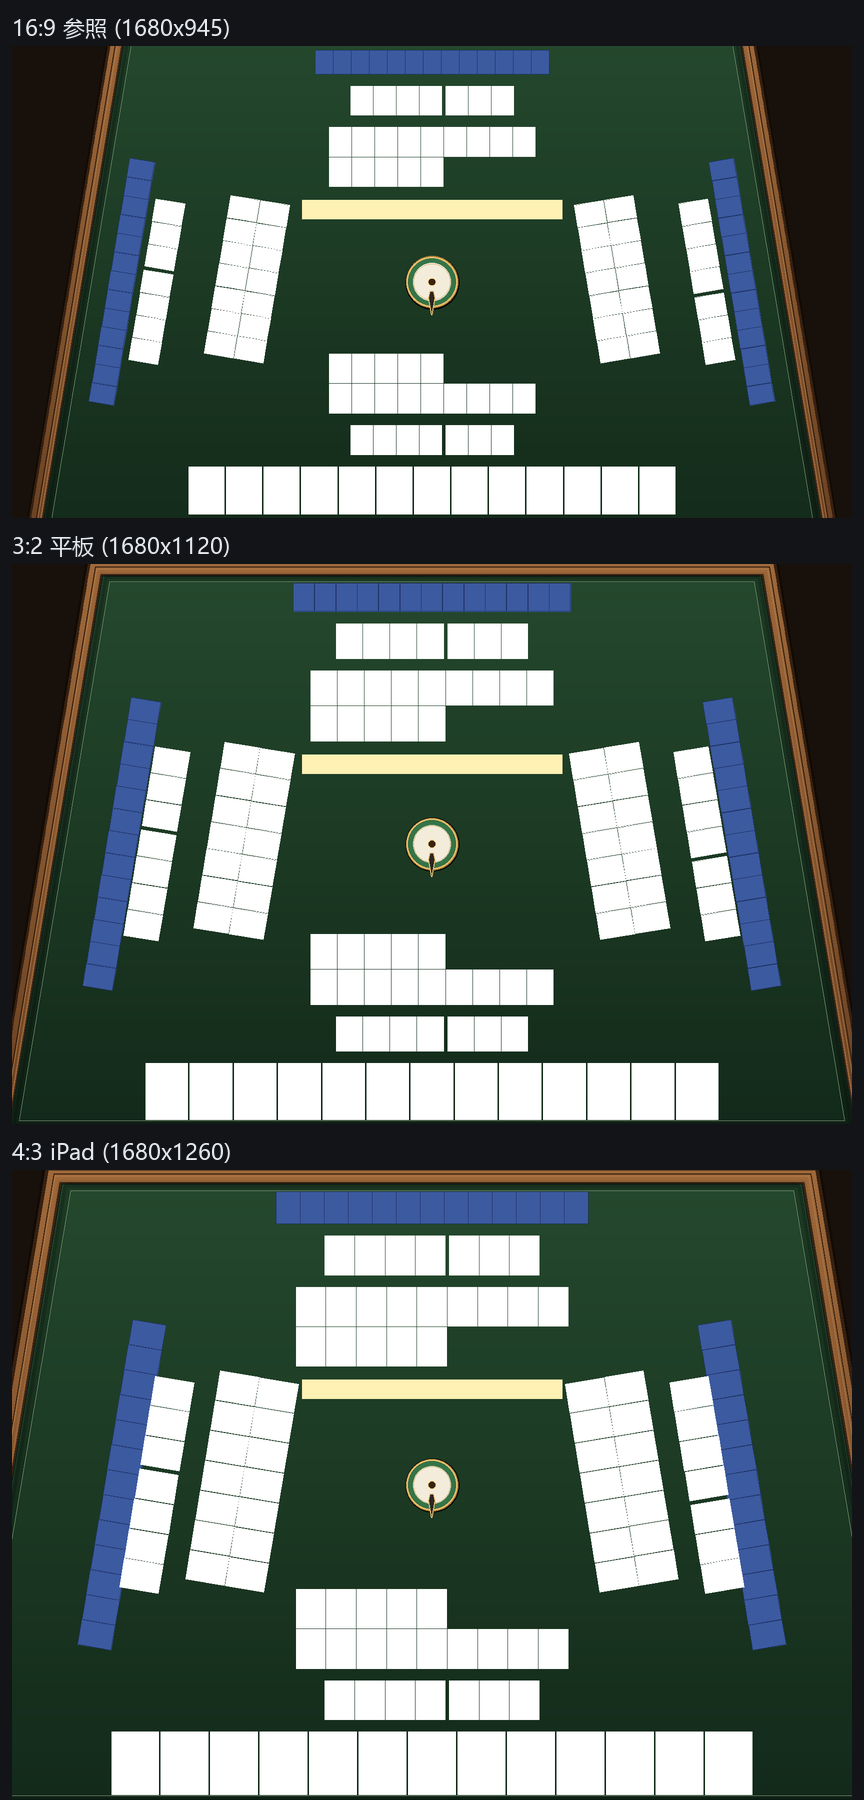
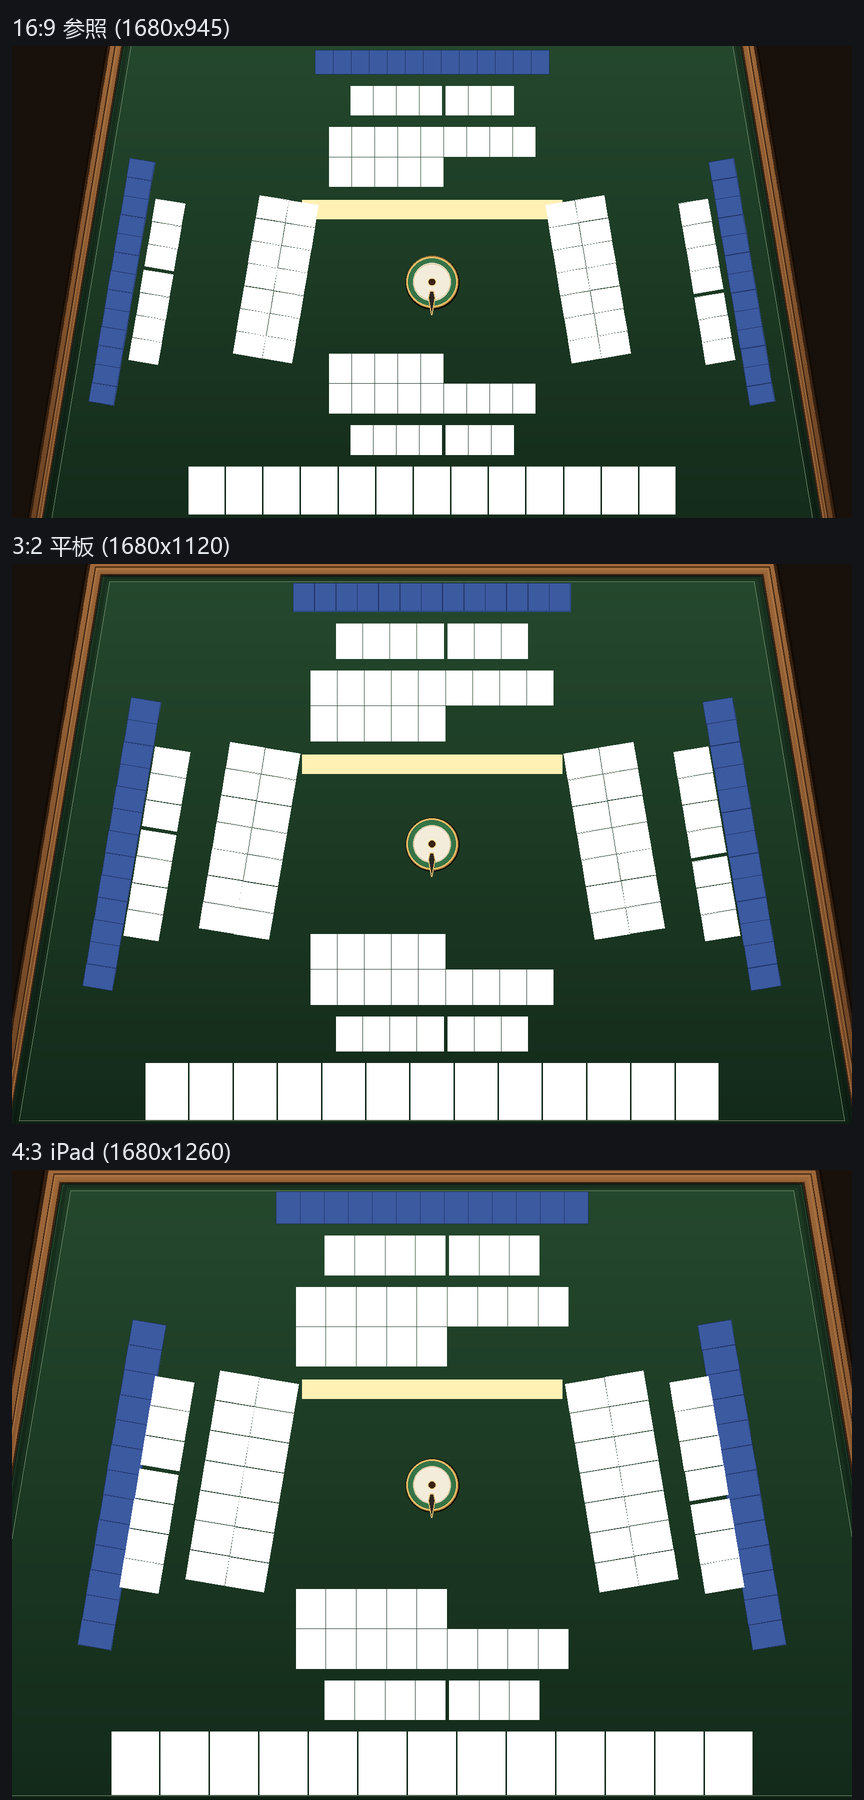
feat: 左右家弃牌河往桌心收窄(按牌尺寸反推, 净空恒 30px)
侧家牌河容器是斜的(±(90 − SIDE_EDGE_TILT)), 最靠桌心的不是容器原点而是内角,
探出量 = (半排长 + 半牌宽)·sin(tilt) + 半牌高·cos(tilt)(手机 55px / 4:3 平板 73px)。
写死 340 时手机两块牌河之间还空 87px(像"飘在桌边"), 4:3 却只剩 3px。

- Main: 新增 SIDE_RIVER_GAP(30) + _sideRiverX(rivH) =
  min(老位置 340, 上下牌河半宽 + GAP + 探出量), 只许往桌心靠、不许往外退
  手机 340 → 283(净空恒 30), 3:2 → 329, 4:3 反推要 367 被夹回 340(净空仍 3)
- AI_LAYOUT.dx 退化为上限; _applyLayout 里按 i === 1 ? -x : x 镜像摆放
- preview-layout.py 镜像 side_river_x(), 新增 --side 出改前后对照图
- tablet-layout-test: E 组第 4 条改用真实内缘(原来 340 − 牌宽/2 高估净空),
  新增 G 组(净空恒定 / 不越老位置 / 手机至少挪 40px) + D 组 5 条接线断言
- AGENTS.md / 预览图同步

验证: tsc 全绿; tablet / hint-layout / settings / state-cleanup / deal-anim /
info-visibility 全过

diff --git a/tools/ai-test/tablet-layout-test.ts b/tools/ai-test/tablet-layout-test.ts
@@ -106,7 +106,12 @@ const TURN_DISC_R_MIN = num(mainCode, /TURN_DISC_R_MIN\s*=\s*([\d.]+)/, 'TURN_DI
 const TURN_DISC_MARGIN = num(mainCode, /TURN_DISC_MARGIN\s*=\s*([\d.]+)/, 'TURN_DISC_MARGIN');
 /** 左/右家手牌列 / 弃牌河的 x(来自 Main.AI_LAYOUT) */
 const SIDE_HAND_X = 620;
-const SIDE_RIVER_X = 340;
+/** 左右家牌河的老位置 = 现在只作上限(反推出来更大时保持原位, 只许往桌心靠) */
+const SIDE_RIVER_X_MAX = Math.abs(num(mainCode, /hH:\s*false,\s*dx:\s*(-?[\d.]+)/, 'AI_LAYOUT 左家 dx'));
+/** 弃牌河列数 / 侧家牌河内缘净空(侧家牌河的 x 由它们反推, 见 Main._sideRiverX) */
+const RIVER_COLS = num(mainCode, /private readonly RIVER_COLS\s*=\s*([\d.]+)/, 'RIVER_COLS');
+const SIDE_RIVER_COLS = num(mainCode, /private readonly SIDE_RIVER_COLS\s*=\s*([\d.]+)/, 'SIDE_RIVER_COLS');
+const SIDE_RIVER_GAP = num(mainCode, /private readonly SIDE_RIVER_GAP\s*=\s*([\d.]+)/, 'SIDE_RIVER_GAP');
 /** 满手张数(含刚摸到的那张), 横向最坏情况 */
 const FULL_HAND = 14;
 /** 副露最坏情况: 4 组 × 4 张 */
@@ -135,6 +140,37 @@ function bottomHalfOf(halfH: number): number {
 }
 function aspectHalfH(aspect: number): number {
     return CONTENT_HALF_W / aspect;
+}
+
+/**
+ * 侧家牌河的倾斜角(度) —— 与 Main.SIDE_EDGE_TILT 同一套桌面几何:
+ * atan2(近端半宽 − 远端半宽, 近端半高 + 远端半高)。这里用上面提取到的桌面常量重算,
+ * 桌面几何一改, 下面的净空断言会立刻变红。
+ */
+const SIDE_EDGE_TILT = Math.atan2(
+    FELT_NEAR_HW - FELT_NEAR_HW * FAR_RATIO,
+    FELT_NEAR_HH + FELT_NEAR_HH * (TABLE_FAR_HH / TABLE_NEAR_HH),
+) * 180 / Math.PI;
+
+/**
+ * 侧家牌河"往桌心探"的深度。
+ * 容器是斜的, 最靠桌心的不是容器原点, 而是靠桌心那条边上最内侧的牌角:
+ *   (半排长 + 半张牌宽) × sin(倾角) + 半张牌高 × cos(倾角)
+ * 写死 x=340 时手机这块会白留 87px 空档, 4:3 平板却只剩 3px —— 同一个数字不是一回事。
+ */
+function sideRiverOverhang(riverW: number, rivH: number): number {
+    const tilt = (SIDE_EDGE_TILT * Math.PI) / 180;
+    return (((SIDE_RIVER_COLS - 1) * riverW) / 2 + riverW / 2) * Math.sin(tilt)
+        + (rivH / 2) * Math.cos(tilt);
+}
+/** 复刻 Main._sideRiverX */
+function sideRiverX(riverW: number, rivH: number): number {
+    return Math.min(SIDE_RIVER_X_MAX,
+        (RIVER_COLS * riverW) / 2 + SIDE_RIVER_GAP + sideRiverOverhang(riverW, rivH));
+}
+/** 侧家牌河内缘 ↔ 自家/上家牌河外沿 的净空(<0 就是叠了) */
+function sideRiverClearance(riverW: number, rivH: number): number {
+    return sideRiverX(riverW, rivH) - sideRiverOverhang(riverW, rivH) - (RIVER_COLS * riverW) / 2;
 }
 
 const SCREENS: Array<[string, number]> = [
@@ -231,6 +267,16 @@ check(['_refreshHand', '_refreshAIHand', '_refreshDiscard', '_refreshAIDiscard',
     .every(f => rebuildBody.indexOf(f) >= 0),
     '_rebuildTiles() 覆盖手牌 / 牌河 / 副露');
 check(rebuildBody.includes('_dealing'), '_rebuildTiles() 在发牌动画期间跳过(不打断飞入)');
+// 左右家牌河的 x 不再是写死的 340, 而是按净空反推 —— 别又退回硬编码
+const sideXBody = body(mainCode, 'private _sideRiverX(');
+check(sideXBody.length > 0, '_sideRiverX() 能定位到');
+check(sideXBody.includes('SIDE_RIVER_GAP') && sideXBody.includes('RIVER_COLS')
+    && sideXBody.includes('SIDE_EDGE_TILT'),
+    '_sideRiverX() 用"净空 + 牌河宽度 + 倾斜探出量"反推');
+check(sideXBody.includes('Math.min'), '_sideRiverX() 被上限夹住(只许往桌心靠, 不许往外退)');
+check(applyLayout.includes('_sideRiverX(rivH)'), '_applyLayout() 用 _sideRiverX 定位左右家牌河');
+check(/setPosition\(i === 1 \? -sideRiverX : sideRiverX/.test(applyLayout),
+    '左右家牌河按反推值镜像摆放');
 // 桌面绘制与牌位上限必须共用同一组常量, 否则改桌面大小会漏
 const tableBody = body(mainCode, 'private _buildTable(');
 check(tableBody.includes('this.TABLE_NEAR_HH') && tableBody.includes('this.TABLE_FAR_HH'),
@@ -278,12 +324,15 @@ for (const [name, aspect] of [['3:2', 3 / 2], ['4:3', 4 / 3]] as Array<[string, 
         `${name} 上家手牌半宽 ${topHalfW.toFixed(0)} 不撞侧家手牌列 ${sideInner.toFixed(0)}`,
         `重叠 ${(topHalfW - sideInner).toFixed(0)}px`);
 
-    // 4) 自家/上家 9 张牌河 ←→ 左/右家牌河(内缘) —— 牌放大后最挤的一条
-    const riverHalfW = (9 * riverW) / 2;
-    const sideRiverInner = SIDE_RIVER_X - riverW / 2;
-    check(riverHalfW + 20 < sideRiverInner,
-        `${name} 牌河半宽 ${riverHalfW.toFixed(0)} 不撞侧家牌河 ${sideRiverInner.toFixed(0)}`,
-        `重叠 ${(sideRiverInner - riverHalfW).toFixed(0)}px 余量不足`);
+    // 4) 自家/上家 9 张牌河 ←→ 左/右家牌河(内缘) —— 牌放大后最挤的一条。
+    //    侧家那块是斜的: 内缘 = x − [(半排长 + 半牌宽)·sin + 半牌高·cos],
+    //    不能用 x − 牌宽/2(会高估净空), 见 sideRiverOverhang
+    const riverHalfW = (RIVER_COLS * riverW) / 2;
+    const rivH = (riverW * BASE_TILE_H) / BASE_TILE_W;
+    const sideGap = sideRiverClearance(riverW, rivH);
+    check(sideGap >= 0,
+        `${name} 侧家牌河内缘 ${(riverHalfW + sideGap).toFixed(0)} 让开牌河外沿 ${riverHalfW.toFixed(0)}(净空 ${sideGap.toFixed(0)})`,
+        `重叠 ${(-sideGap).toFixed(0)}px`);
 
     // 5) 副露最坏情况 16 张仍在内容宽度内
     const meldHalfW = (FULL_MELD * riverW) / 2;
@@ -348,6 +397,32 @@ for (const [name, aspect] of [['21:9', 21 / 9], ['19.5:9', 19.5 / 9], ['16:9', 1
     check(discR <= room,
         `${name} 转盘半径 ${discR.toFixed(1)} ≤ 到牌河的距离 ${room.toFixed(1)}`,
         `压牌 ${(discR - room).toFixed(1)}px`);
+}
+
+console.log('\n[G] 左右家弃牌河"往桌心靠": 内缘净空恒定, 且绝不越过老位置');
+for (const [name, aspect] of [['21:9', 21 / 9], ['19.5:9', 19.5 / 9], ['16:9', 16 / 9],
+    ['3:2', 3 / 2], ['4:3', 4 / 3]] as Array<[string, number]>) {
+    const halfH = aspectHalfH(aspect);
+    const tk = tileScale(halfH);
+    const riverW = BASE_RIVER_TILE_W * tk;
+    const rivH = (riverW * BASE_TILE_H) / BASE_TILE_W;
+    const x = sideRiverX(riverW, rivH);
+    const gap = sideRiverClearance(riverW, rivH);
+    const overhang = sideRiverOverhang(riverW, rivH);
+    check(x <= SIDE_RIVER_X_MAX + 1e-6,
+        `${name} 侧家牌河 x=${x.toFixed(0)} 不越过老位置 ${SIDE_RIVER_X_MAX}(只往桌心靠)`,
+        `跑到了 ${x.toFixed(0)}`);
+    check(gap >= 0, `${name} 与自家/上家牌河净空 ${gap.toFixed(0)} ≥ 0(倾斜探出 ${overhang.toFixed(0)} 已扣掉)`,
+        `重叠 ${(-gap).toFixed(0)}px`);
+    if (tk <= 1.001) {
+        // 手机: 反推值没撞上限, 应该正好贴到 SIDE_RIVER_GAP, 且比老位置至少挪 40px
+        check(near(gap, SIDE_RIVER_GAP, 0.5), `${name} 净空 = SIDE_RIVER_GAP ${SIDE_RIVER_GAP}`,
+            `实际 ${gap.toFixed(1)}`);
+        check(x <= SIDE_RIVER_X_MAX - 40,
+            `${name} 侧家牌河 ${x.toFixed(0)} 比老位置 ${SIDE_RIVER_X_MAX} 靠桌心 ${(SIDE_RIVER_X_MAX - x).toFixed(0)}px(≥40)`,
+            `只挪了 ${(SIDE_RIVER_X_MAX - x).toFixed(0)}px`);
+    }
+    console.log(`     ${name.padEnd(7)} 牌宽 ${riverW.toFixed(0)} → x=${x.toFixed(0)} 内缘 ${(x - overhang).toFixed(0)} 净空 ${gap.toFixed(0)}`);
 }
 
 console.log(`\n${fails === 0 ? '全部通过' : fails + ' 项失败'}\n`);

diff --git a/assets/scripts/Main.ts b/assets/scripts/Main.ts
@@ -490,7 +490,8 @@ export class Main extends Component {
     /**
      * 上家/本家弃牌河每排最多张数
      * 取 9: 一局里每家最多弃 21 张,排到第三排时只剩 1~3 张,且从最外侧那一列开始,
-     * 离桌心的转盘还很远。也不能再加大(例如 11 张/排): 那样这块牌河横向会顶到左右两家的牌河。
+     * 离桌心的转盘还很远。也不能再加大(例如 11 张/排): 那样这块牌河横向会顶到左右两家的牌河 ——
+     * ⚠ 侧家牌河的 x 现在是**按这个宽度反推**的(`_sideRiverX`), 改这里会把左右两块一起推出去。
      */
     private readonly RIVER_COLS = 9;
     /**
@@ -499,6 +500,14 @@ export class Main extends Component {
      * 取 7 让这一块短一点: 残局堆到第 3 行时,两端的牌不会顶到本家副露行的两个角。
      */
     private readonly SIDE_RIVER_COLS = 7;
+    /**
+     * 左/右家牌河内缘 与 自家/上家牌河外沿 之间要留的横向净空
+     *
+     * 侧家那块牌河与上下的牌河在纵向上是**重叠**的(侧家那块从 y≈-160 一路到 +180),
+     * 所以"不叠"只靠这条横向净空兜着。留 30(≈0.7 张牌宽)才看得出是两堆牌,
+     * 而不是一堆斜着摆的牌。侧家牌河的 x 由 `_sideRiverX` 按这条净空反推。
+     */
+    private readonly SIDE_RIVER_GAP = 30;
     // 四家的弃牌河容器一律不做纵向压缩(scaleY 全为 1):
     // 同一张 44 宽的牌,压过的比没压过的又扁又小,本家的牌河就会显得比其他三家小、宽高比也不对。
     // 副露(吃/碰/杠)那一排同样不单独配尺寸,直接用 RIVER_TILE_W / RIVER_GAP(见 _refreshMelds),
@@ -507,6 +516,8 @@ export class Main extends Component {
     // ---- AI 布局配置: [手牌x, 横向(顶部/侧边), 弃牌x, Y缩放] ----
     // 手牌/弃牌的 y 由 _applyLayout 按可见高度动态计算(顶部贴可见上边,侧边居中)
     // 弃牌河排布统一走 RIVER_COLS,不在这里单独配置
+    // 左右家的 dx 只是**上限**(= 老位置 340): 真实 x 由 _sideRiverX 按牌尺寸反推,
+    // 只允许比这个值更靠桌心, 不许往外退(见 _sideRiverX 的注释)
     private readonly AI_LAYOUT: {
         hx: number; hH: boolean;
         dx: number; scaleY: number;
@@ -1024,6 +1035,37 @@ export class Main extends Component {
     }
 
     /**
+     * 左/右家弃牌河的 x(内容坐标, 返回正数; 左家取负、右家取正)
+     *
+     * 【为什么不再写死 340】侧家牌河是斜着摆的(容器按桌面侧边倾角旋转 ±(90 − tilt),
+     * 见 SIDE_EDGE_TILT), 它在屏幕横向上最"往桌心探"的位置**不是容器原点**,
+     * 而是靠桌心那条边上最内侧的牌角 ——
+     *
+     *   探出量 = (半排长 + 半张牌宽) × sin(tilt) + 半张牌高 × cos(tilt)
+     *
+     * 手机(牌宽 44)约 55px, 4:3 平板(牌宽 59)约 73px。所以写死 340 时两块牌河之间
+     * 其实还空着 87px(手机), 看着像"飘在桌边"; 平板却只剩 3px —— 同一个数字
+     * 在两种屏幕上完全不是一回事, 必须按牌尺寸反推。
+     *
+     * 约束: 内缘 ≥ 上下牌河的外沿 + SIDE_RIVER_GAP。
+     * 上限取 `AI_LAYOUT.dx`(老位置 340): 平板牌大, 反推出来会超过 340,
+     * 那就保持原位 —— 本次只"往桌心靠", 不让它往外退。
+     */
+    private _sideRiverX(rivH: number): number {
+        const w = this.RIVER_TILE_W;
+        const stepX = w + this.RIVER_GAP;
+        const tilt = (this.SIDE_EDGE_TILT * Math.PI) / 180;
+        const overhang =
+            (((this.SIDE_RIVER_COLS - 1) * stepX) / 2 + w / 2) * Math.sin(tilt)
+            + (rivH / 2) * Math.cos(tilt);
+        const riverHalfW = (this.RIVER_COLS * stepX) / 2;
+        return Math.min(
+            Math.abs(this.AI_LAYOUT[1].dx),
+            riverHalfW + this.SIDE_RIVER_GAP + overhang,
+        );
+    }
+
+    /**
      * 依据可见半高 halfH 定位所有 UI(内容坐标,原点为屏幕中心):
      *  - 底部由下到上: 手牌 → 副露 → 弃牌河
      *  - 顶部由上到下: 上家手牌 → 上家副露 → 上家弃牌河(整组紧贴可见区顶边;
@@ -1062,6 +1104,8 @@ export class Main extends Component {
         const meldH = rivH;
         // 副露行与手牌/牌河之间留宽一点: 副露牌外侧要挂"吃/碰/杠是从谁那里来的"小标记
         const meldGap = MELD_MARK_GAP;
+        /** 左/右家牌河 x: 内缘贴住自家/上家牌河, 按牌尺寸反推(见 _sideRiverX) */
+        const sideRiverX = this._sideRiverX(rivH);
 
         // ---- 底部: 手牌 → 副露 → 弃牌河(按钮已移除) ----
         const handY = -bottomHalf + this.TILE_H / 2 + 8;
@@ -1153,11 +1197,11 @@ export class Main extends Component {
         this._meldContainers[1]?.setPosition(0, topMeldY, 0);
         this._aiDiscardContainers[0]?.setPosition(0, topDiscY, 0);
 
-        // ---- 左/右家(索引 1、2): 竖直居中 ----
+        // ---- 左/右家(索引 1、2): 竖直居中; 牌河 x 由 _sideRiverX 反推(比老位置更靠桌心) ----
         for (let i = 1; i <= 2; i++) {
             const layout = this.AI_LAYOUT[i];
             this._aiHandContainers[i]?.setPosition(layout.hx, 0, 0);
-            this._aiDiscardContainers[i]?.setPosition(layout.dx, 0, 0);
+            this._aiDiscardContainers[i]?.setPosition(i === 1 ? -sideRiverX : sideRiverX, 0, 0);
             if (this._meldContainers[i + 1]) {
                 const offX = i === 1 ? 70 : -70;
                 this._meldContainers[i + 1]!.setPosition(layout.hx + offX, 0, 0);

diff --git a/tools/preview-layout.py b/tools/preview-layout.py
@@ -32,6 +32,36 @@ OLD_AI_LAYOUT = [
 ]
 SIDE_EDGE_TILT = math.degrees(math.atan2(786 - 786 * 0.78, 526 + 526 * (530 / 560)))
 
+# ===== 弃牌河列数 / 侧家牌河 x(镜像 Main.RIVER_COLS / SIDE_RIVER_COLS / _sideRiverX) =====
+RIVER_COLS = 9
+SIDE_RIVER_COLS = 7
+SIDE_RIVER_GAP = 30        # 侧家牌河内缘 ↔ 上下牌河外沿的横向净空
+SIDE_RIVER_X_MAX = 340     # 老位置 = 上限: 反推出来更大时保持原位(只许往桌心靠)
+
+
+def side_river_x(riv_w, riv_h):
+    """镜像 Main._sideRiverX: 侧家牌河容器 x(正数)。
+
+    侧家那块是斜着摆的, 最靠桌心的不是容器原点而是内角, 探出量 =
+    (半排长 + 半张牌宽) × sin(tilt) + 半张牌高 × cos(tilt)。
+    """
+    tilt = math.radians(SIDE_EDGE_TILT)
+    overhang = (((SIDE_RIVER_COLS - 1) * riv_w) / 2 + riv_w / 2) * math.sin(tilt) \
+        + riv_h / 2 * math.cos(tilt)
+    return min(SIDE_RIVER_X_MAX, RIVER_COLS * riv_w / 2 + SIDE_RIVER_GAP + overhang)
+
+
+def side_river_inner(riv_w, riv_h, x=None):
+    """侧家牌河内缘到桌心的距离(用于算它和上下牌河之间的真实净空)
+
+    x=None 表示按 _sideRiverX 反推; 给数字表示写死(出"改前"对照图时用)。
+    """
+    tilt = math.radians(SIDE_EDGE_TILT)
+    overhang = (((SIDE_RIVER_COLS - 1) * riv_w) / 2 + riv_w / 2) * math.sin(tilt) \
+        + riv_h / 2 * math.cos(tilt)
+    return (side_river_x(riv_w, riv_h) if x is None else x) - overhang
+
+
 
 def tile_h(w):
     return w * TILE_H_RATIO
@@ -44,7 +74,8 @@ class Variant:
                  info_rows, meld_matches_river=False, meld_squash=0.85, river_squash=0.82,
                  side_river_inward=True, disc_r_min=30, side_river_cols=None,
                  top_tile_w=32, top_tile_gap=2, side_tile_w=38, side_tile_gap=3,
-                 ai_layout=None, meld_offset=70, side_step_adaptive=False):
+                 ai_layout=None, meld_offset=70, side_step_adaptive=False,
+                 side_river_x=None):
         self.name = name
         self.river_w = river_w
         self.river_gap = 2
@@ -69,6 +100,8 @@ class Variant:
         self.ai_layout = ai_layout or DEFAULT_AI_LAYOUT
         self.meld_offset = meld_offset
         self.side_step_adaptive = side_step_adaptive   # 侧边手牌间距是否按可见高度压缩
+        # None = 按 Main._sideRiverX 反推; 给数字 = 写死(用来出"改前"对照图)
+        self.side_river_x = side_river_x
 
     def meld_width(self, seat):
         if self.meld_matches_river:
@@ -172,7 +205,8 @@ def resolve_layout(v, design_w, design_h):
                 riv_h=riv_h, meld_h=meld_h, top_meld_h=top_meld_h,
                 hand_y=hand_y, meld_y=meld_y, disc_y=disc_y,
                 top_hand_y=top_hand_y, top_meld_y=top_meld_y, top_disc_y=top_disc_y,
-                info_y=info_y, disc_r=v.disc_r, tip=v.disc_r * v.tip_ratio)
+                info_y=info_y, disc_r=v.disc_r, tip=v.disc_r * v.tip_ratio,
+                side_river_x=side_river_x(riv_w, riv_h))
 
 
 # ===== 绘制 =====
@@ -401,9 +435,10 @@ def river_tiles(seat, v, lay, count):
         # 所以朝桌外都是 +1;朝桌心则是左家 -1、右家 +1
         inward = -1 if seat == 2 else 1
         direction = inward if v.side_river_inward else 1
-        _, _, dx = v.ai_layout[seat - 1]
+        # x 不再取 AI_LAYOUT 里写死的 340, 而是按牌尺寸反推(镜像 Main._sideRiverX)
+        dx = v.side_river_x if v.side_river_x is not None else lay['side_river_x']
         angle = (90 - SIDE_EDGE_TILT) if seat == 2 else (SIDE_EDGE_TILT - 90)
-        origin, squash = (dx, 0.0), 1.0
+        origin, squash = (-dx if seat == 2 else dx, 0.0), 1.0
     a = math.radians(angle)
     ca, sa = math.cos(a), math.sin(a)
     out = []
@@ -543,6 +578,51 @@ def main_tablet():
     print('saved tablet-preview.png', out.size)
 
 
+def main_side():
+    """左右家牌河"往桌心靠": 改前(写死 340) / 改后(按牌尺寸反推)对照
+
+    弃牌取 21 张(= 三排)是最坏情况: 侧家那块纵向最长, 与上下牌河的重叠带最宽,
+    也最靠桌心。图里要确认两件事: 两块牌河之间**没有叠**, 且看得出是两堆。
+    """
+    cases = [('16:9 手机 (1680x945)', 1680, 945),
+             ('4:3 iPad (1680x1260)', 1680, 1260)]
+    f_label = ImageFont.truetype('C:/Windows/Fonts/msyh.ttc', 22)
+    rows = []
+    for label, dw, dh in cases:
+        for tag, fixed in (('改前 写死 340', 340.0), ('改后 反推', None)):
+            v = Variant('side', 44, 9, (44, 44, 44), (0, 0, 0), 52, True, 1.27, 1,
+                        meld_matches_river=True, river_squash=1.0, side_river_inward=False,
+                        side_river_cols=7, top_tile_w=36, top_tile_gap=0, side_tile_gap=0,
+                        side_river_x=fixed)
+            f = f'tools/.preview-side-{dh}-{tag[:2]}.png'
+            lay = render(v, dw, dh, 21, f)
+            riv_w, riv_h = lay['river_w'], lay['riv_h']
+            x = fixed if fixed is not None else lay['side_river_x']
+            inner = side_river_inner(riv_w, riv_h, fixed)
+            gap = inner - RIVER_COLS * riv_w / 2
+            print(f'[{label} | {tag}] 牌宽={riv_w:.0f} 侧家牌河 x={x:.0f} '
+                  f'内缘={inner:.0f} 上下牌河外沿={RIVER_COLS * riv_w / 2:.0f} 净空={gap:+.0f}px')
+            img = Image.open(f).convert('RGB')
+            os.remove(f)
+            rows.append((f'{label} | {tag} (净空 {gap:+.0f}px)', img))
+
+    scale = 0.5
+    gap_px, pad_top = 12, 30
+    panels = [(t, im.resize((int(im.width * scale), int(im.height * scale)), Image.LANCZOS))
+              for t, im in rows]
+    tw = max(im.width for _, im in panels) + gap_px * 2
+    th = sum(im.height + pad_top + gap_px for _, im in panels)
+    out = Image.new('RGB', (tw, th), (18, 20, 24))
+    d = ImageDraw.Draw(out)
+    y = gap_px
+    for title, im in panels:
+        d.text((gap_px, y), title, font=f_label, fill=(232, 236, 240))
+        out.paste(im, (gap_px, y + pad_top))
+        y += im.height + pad_top + gap_px
+    out.save('side-river-preview.png')
+    print('saved side-river-preview.png', out.size)
+
+
 def main():
     design_w, design_h = 2340, 1080        # 19.5:9 手机横屏
     report = []
@@ -574,5 +654,7 @@ if __name__ == '__main__':
     import sys
     if '--tablet' in sys.argv:
         main_tablet()
+    elif '--side' in sys.argv:
+        main_side()
     else:
         main()

diff --git a/AGENTS.md b/AGENTS.md
@@ -85,9 +85,16 @@ _gameRoot.scale = design.width / 1680        // CONTENT_W = 1680
 芯片为什么两种屏幕都贴边：手牌还要再乘 `HAND_SCALE`（见下），"手牌右侧"那条净空
 只剩 202px（手机）/ 156px（4:3），长文案缩到 `CHIP_MIN_SCALE` 都塞不下。
 
-让位后真正卡住上限的是**牌河**：9 张 × 44 × k 的半宽要让开左右家牌河内缘
-（340 − 22k），留 30px → `k ≤ 1.41`，取 1.4（4:3 实际是 `630/472.5 = 1.33`，
-1:1 与竖屏才撞到 1.4）。**改按钮 / 芯片位置或牌河列数，必须重跑测试的 E 组。**
+让位后真正卡住上限的是**牌河**：9 张 × 44 × k 的半宽要让开左右家牌河内缘。
+
+⚠ **左右家牌河的 x 不是常数**（2026-10-17 起）：侧家那块是斜着摆的（倾斜 `SIDE_EDGE_TILT`），
+它最靠桌心的**不是容器原点**，而是靠桌心那条边上最内侧的牌角 ——
+探出量 = `(半排长 + 半张牌宽)·sin(tilt) + 半张牌高·cos(tilt)`（手机 55px、4:3 平板 73px）。
+写死 340 时手机两块牌河之间白留 87px（像"飘在桌边"），4:3 却只剩 3px —— 同一个数字完全不是一回事。
+所以由 `_sideRiverX()` 按 `上下牌河半宽 + SIDE_RIVER_GAP(30) + 探出量` 反推，**上限取老位置 340**
+（只许往桌心靠，不许往外退）。结果：手机 340 → 283（净空恒 30），3:2 → 329，4:3 反推要 367、
+被夹回 340（净空仍只有 3px）—— 即 `k ≤ 1.4` 的余量在 4:3 上**已经用尽**。
+**改按钮 / 芯片位置、牌河列数或 `SIDE_RIVER_GAP`，必须重跑测试的 E / G 组。**
 
 ⚠ 副露**不能**和手牌同排：14 张手牌 882k + 最多 16 张副露 704k = 1586k，
 k=1 时居中就会把左缘推到 -793，直接压住两个按钮；放大后更不可能。
